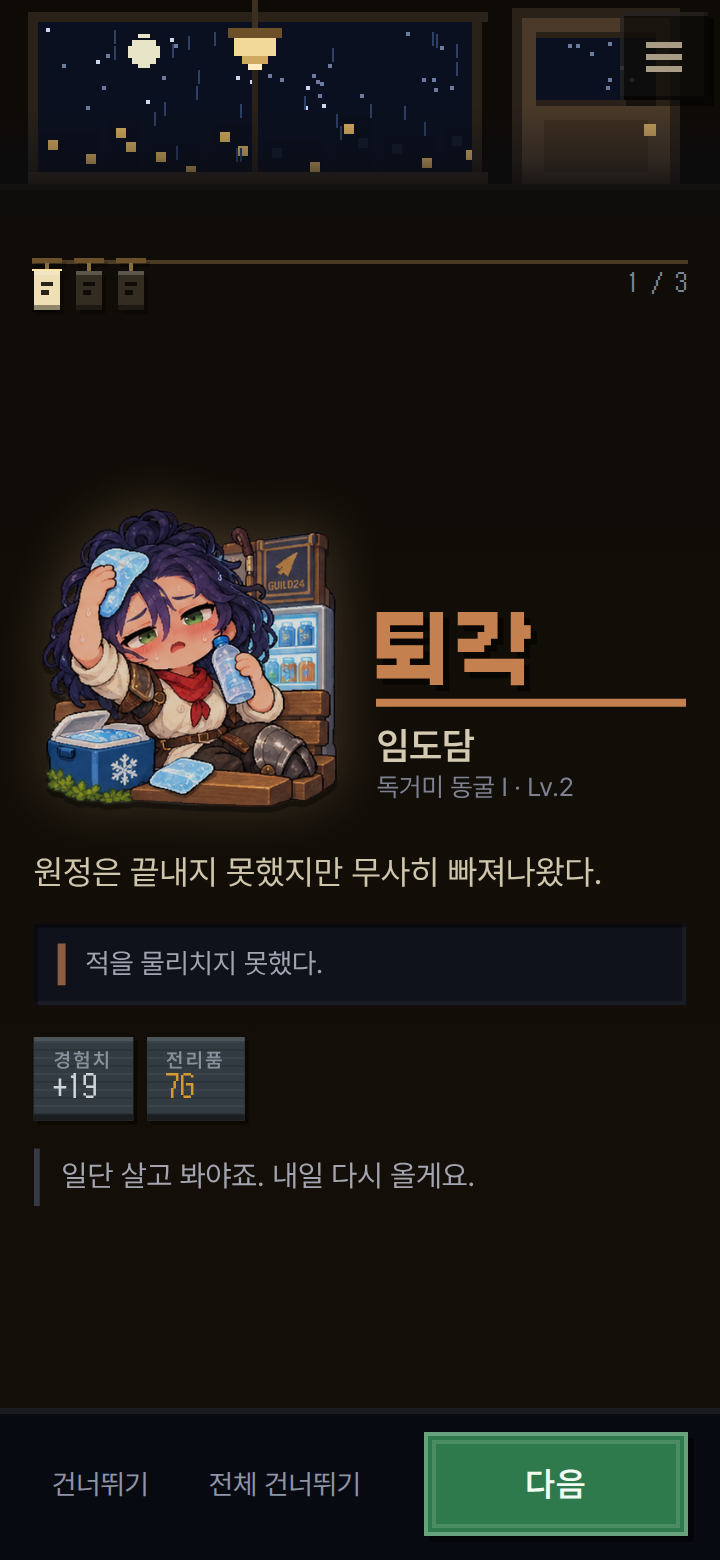
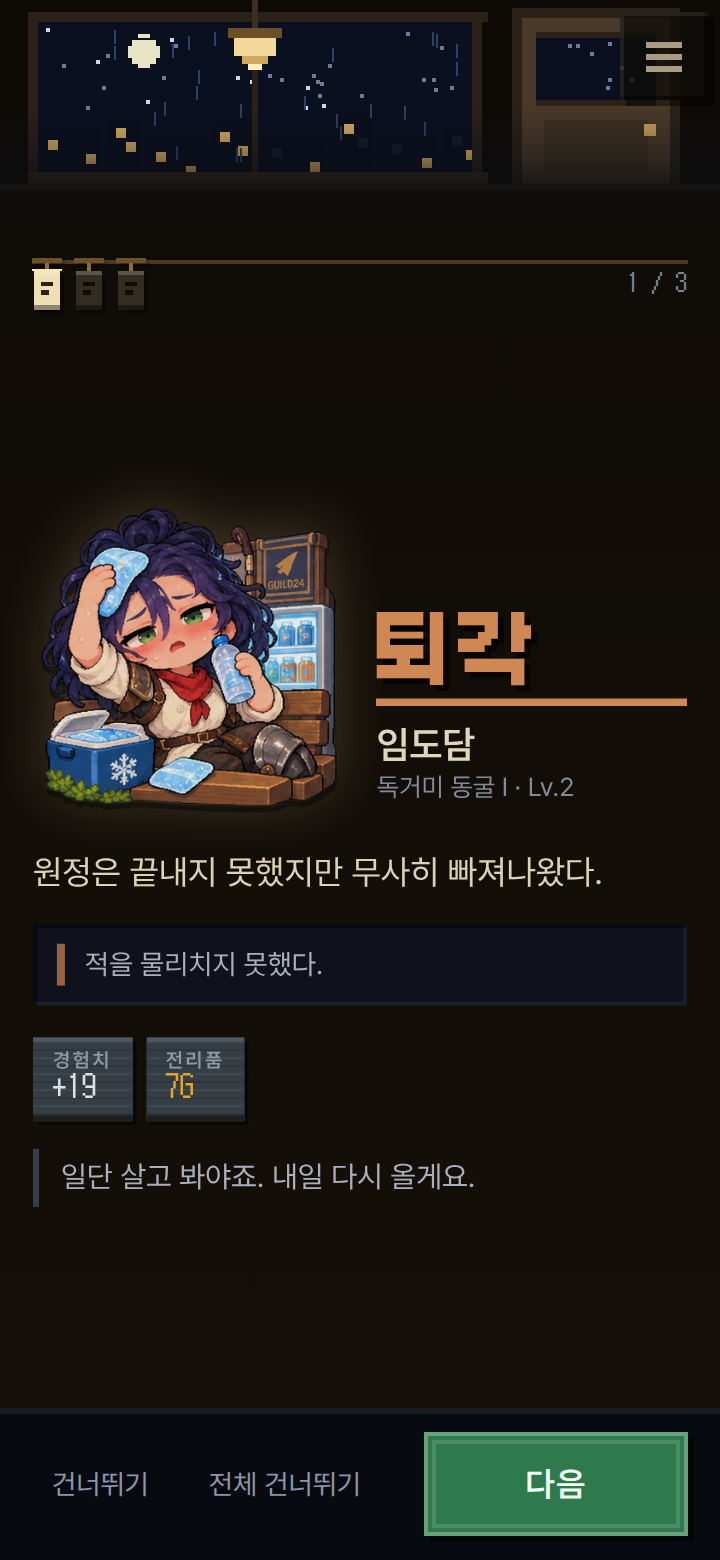
fix(night): one NPC art size for every outcome
The routine beat still shrank the adventurer (min(40vw,172px) against min(44vw,190px)).
That distinction is removed: every outcome — 대성공, 성공, 퇴각, 부상, 중상, 사망 — renders
the production art at the same size and in the same character-presence layout.

Importance still changes the amount of copy, whether a quote is spent, which change
tokens appear, the tone colour and the secondary emphasis. It no longer touches the
figure. A pure routine success is compact because it carries less information, not
because the character became a thumbnail.

Measured on the shipped build at 360: all seven outcome fixtures render the figure at
158x158, identical. The guard now fails on any second rule that resizes the Night NPC
and on any importance branch around the figure.

npm test, npm run qa:visual clean at 360/390/430; canonical/** unchanged. No resolution,
balance or layout change.

Claude-Session: https://claude.ai/code/session_01VmL6rf4eEweqMt39ExXobA

diff --git a/dist/ui/ui.css b/dist/ui/ui.css
@@ -512,11 +512,10 @@ input[type=text],.seed-field{background:#0b0806;border:0;box-shadow:inset 2px 2p
 /* the beat */
 .beat{position:relative}
 .stand-in{display:flex;align-items:flex-end;gap:14px;margin-bottom:16px}
-/* The adventurer keeps their presence on every beat. A routine night is lighter in copy,
-   not in character: the figure steps down one size, it never becomes an icon. */
+/* One NPC size for every outcome. Importance changes how much copy a beat spends, the
+   quote, the change tokens and the tone — never how big the adventurer is. */
 .pfp.returner{width:min(44vw,190px);height:min(44vw,190px);
  filter:drop-shadow(0 3px 0 #00000073) drop-shadow(0 -2px 14px #ffd79a3d)}
-.pfp.returner.light{width:min(40vw,172px);height:min(40vw,172px)}
 .beat.quiet .stand-in{gap:12px;margin-bottom:12px}
 .beat .who{flex:1 1 auto;min-width:0;padding-bottom:4px}
 .verdict{font:700 40px/1 var(--f-sign);-webkit-font-smoothing:none;letter-spacing:.02em;

diff --git a/dist/ui/app.js b/dist/ui/app.js
@@ -245,7 +245,7 @@ function beat(r){
  const verdict=Presentation.nightVerdict(r),why=Presentation.nightWhy(r);
  return '<article class="beat t-'+tone+(heavy?'':' quiet')+'">'
  +'<div class="stand-in">'
-  +portrait(n,heavy?150:132,'returner'+(heavy?'':' light'))
+  +portrait(n,150,'returner')
   +'<div class="who"><p class="verdict">'+E(verdict)+'</p>'
    +'<h3>'+E(r.name)+'</h3><p class="place">'+E(r.dungeonName)+' · Lv.'+r.level+'</p>'
    +(r.routeChange?'<p class="route">'+E(r.routeChange)+'</p>':'')+'</div>'
